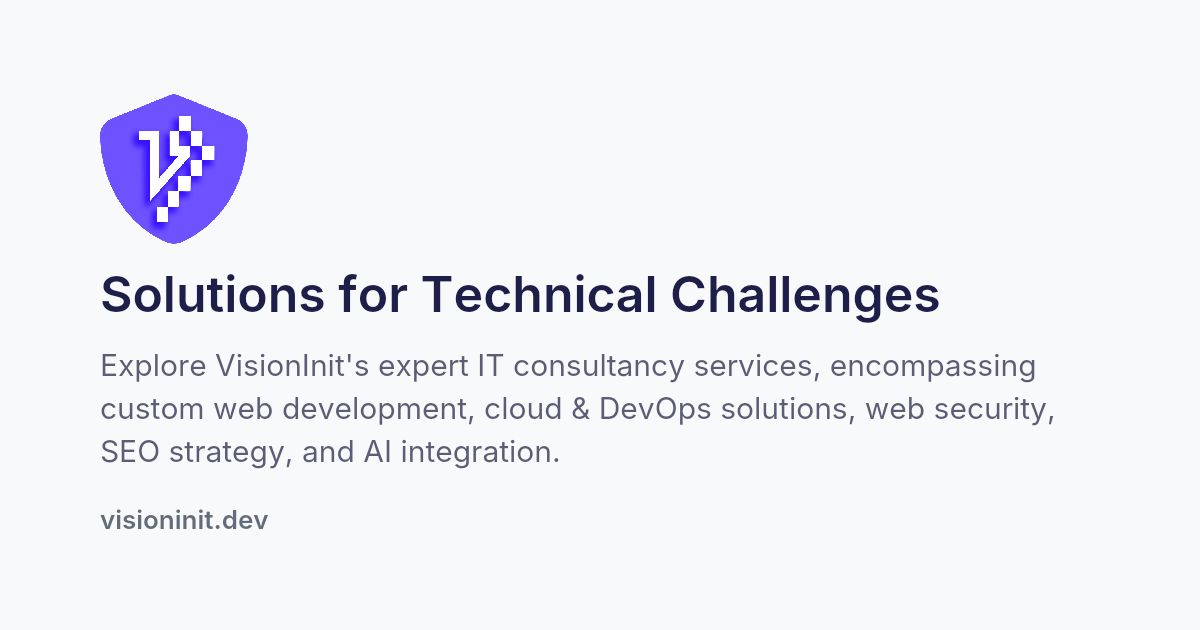
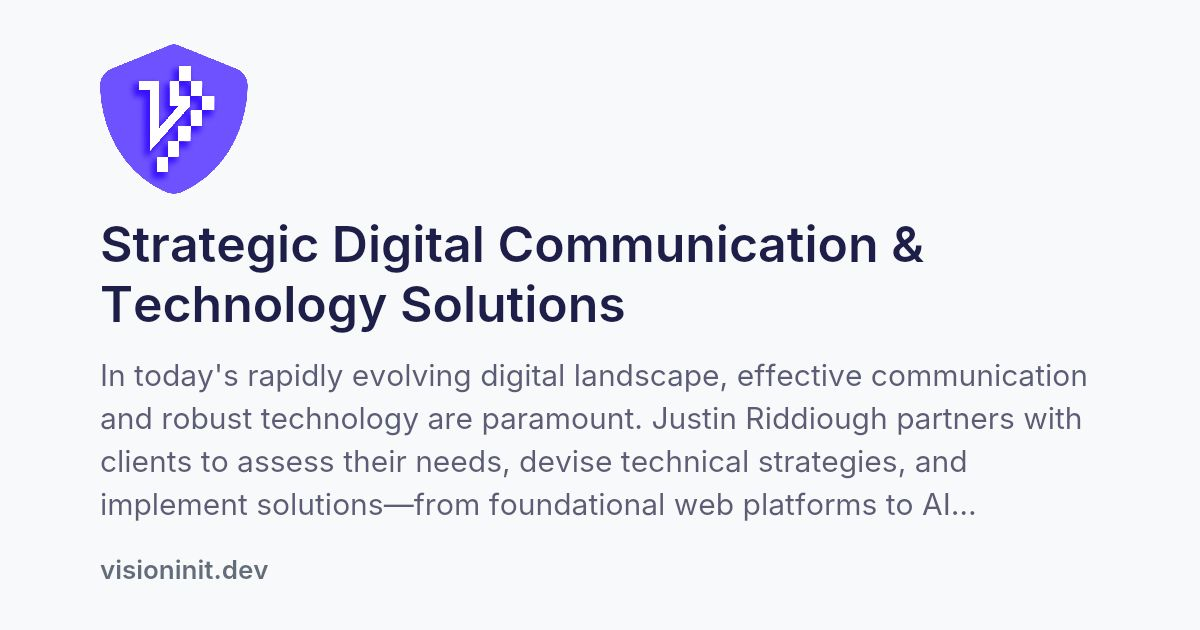
updates

diff --git a/layouts/index.html b/layouts/index.html
@@ -103,6 +103,24 @@
   </section>
   {{ end }}
   {{/* --- END: Subscription Tiers Section --- */}}
+
+  {{/* --- START: Philosophy Section --- */}}
+  {{ if $data.homepage.philosophy_section.enable }}
+  {{ with $data.homepage.philosophy_section }}
+  <section class="section bg-light">
+    <div class="container">
+      <div class="row justify-content-center">
+        <div class="col-lg-10 text-center">
+          {{ with .title }}<h2 class="section-title mb-4">{{ . | markdownify }}</h2>{{ end }}
+          {{ with .content }}<div class="content">{{ . | markdownify }}</div>{{ end }}
+        </div>
+      </div>
+    </div>
+  </section>
+  {{ end }}
+  {{ end }}
+  {{/* --- END: Philosophy Section --- */}}
+
   {{/* --- START: Core Services Section (Copied from /services/ logic) --- */}}
   {{ $servicesPages := where site.RegularPages "Section" "services" }} {{/* Get all pages in the services section */}}
   {{ $sortedServices := $servicesPages.ByWeight }} {{/* Sort them by weight */}}
@@ -116,7 +134,7 @@
       <div class="row justify-content-center">
         <div class="col-lg-8 text-center mb-5">
           <h2 class="section-title">Core Services</h2>
-          <p class="text-muted">Explore the key areas where VisionInit delivers expert solutions.</p>
+          <p class="text-muted">Explore the key areas where Justin Riddiough delivers expert solutions.</p>
         </div>
       </div>
 

diff --git a/content/about/_index.md b/content/about/_index.md
@@ -1,12 +1,12 @@
 ---
 title: 'About Justin Riddiough'
-description: 'Meet Justin Riddiough, founder of VisionInit, bringing 20+ years of hands-on software engineering, security expertise, and a pragmatic approach to your technical challenges.'
+description: 'Meet Justin Riddiough, bringing 20+ years of hands-on software engineering, security expertise, and a pragmatic approach to your technical challenges.'
 draft: false
 # Add image and text block parameters
 image1:
   src: '/images/about/justin.jpg'
   alt: 'Photo of Justin Riddiough'
-  caption: 'Justin Riddiough, Founder of VisionInit.'
+  caption: 'Justin Riddiough'
 text_block_1: | # Use | for multi-line text
   Justin's journey in technology wasn't forged in lecture halls; it began with the hands-on curiosity of exploring a Commodore 64, fostering a lifelong drive to understand how systems work – and how to make them better and more secure. This practical, self-taught foundation complements his extensive professional experience.
 
@@ -32,7 +32,7 @@ text_block_3: |
 
 ## About Justin Riddiough
 
-Welcome! Justin Riddiough, through VisionInit, offers pragmatic, secure, and effective technology solutions built on a foundation of **over two decades of his hands-on software engineering, technical leadership, and a deep-rooted passion for technology.**
+Welcome! Justin Riddiough offers pragmatic, secure, and effective technology solutions built on a foundation of **over two decades of his hands-on software engineering, technical leadership, and a deep-rooted passion for technology.**
 
 ### The Founder: Justin Riddiough
 
@@ -48,17 +48,19 @@ This diverse background shapes Justin Riddiough's core approach:
 
 - **Pragmatic & Effective:** Justin focuses on solutions that work reliably and meet your specific business goals, drawing on real-world operational experience.
 - **Security by Design:** Security isn't an add-on; it's integrated from the start, informed by years of development and direct vulnerability research experience.
+- **Championing Open Source:** Justin actively contributes to the open-source ecosystem, believing in its power to drive innovation and accessibility. His work on projects like [aimodels.org](https://aimodels.org), [Open Neuromorphic](https://open-neuromorphic.org), and [fmcheatsheet.org](https://fmcheatsheet.org) reflects his commitment to applying his technical skills in support of experts and initiatives critical to the long-term success of open source.
 - **Collaborative Partnership:** Justin believes in working closely with clients, translating technical complexities into clear terms, and ensuring alignment throughout the project – skills honed in coordinating multi-team efforts.
-- **Clear Communication:** Translating complex technical challenges for all stakeholders is paramount.
+- **Clear Communication:** **Translating complex technical challenges for all stakeholders is paramount.** This ensures everyone understands the 'why' and 'how' behind technical decisions, fostering better collaboration and outcomes.
+- **Strategic Technology Integration:** Justin stays at the forefront of technological advancements, including AI, to advise on and implement the most effective tools that not only solve technical problems but also enhance how you communicate and operate digitally.
 
-Justin's mission is to leverage this blend of deep technical skill, operational understanding, and security focus to deliver robust, maintainable, and secure technology solutions.
+Justin's mission is to leverage this blend of deep technical skill, operational understanding, security focus, and a commitment to open collaboration to deliver robust, maintainable, and secure technology solutions.
 
 ### Why Partner With Justin Riddiough?
 
 - **Decades of Experience:** Benefit from 20+ years of tackling real-world technical challenges.
 - **Proven Security Focus:** Work with a developer recognized for contributions to internet security and validated by bug bounty programs.
 - **Full-Stack Capability:** From front-end interfaces to backend logic and cloud infrastructure.
-- **Tailored Solutions:** Justin doesn't offer one-size-fits-all; Justin builds what _you_ need.
+- **Tailored Solutions:** Justin doesn't offer one-size-fits-all; he builds what _you_ need.
 - **Reliable Partnership:** Clear communication and a focus on delivering value.
 
 **Ready to discuss how Justin Riddiough can help bring your vision to life securely and efficiently?**

diff --git a/content/services/cloud-infrastructure-devops-solutions/index.md b/content/services/cloud-infrastructure-devops-solutions/index.md
@@ -1,6 +1,6 @@
 ---
 title: 'Cloud Infrastructure & DevOps Solutions'
-description: 'Designing, building, and managing scalable cloud infrastructure with automated CI/CD practices for efficient deployment and operations, drawing on experience with GCP and AWS.' # Enhanced description
+description: "Providing the reliable, scalable, and efficient technological foundation essential for seamless digital communication and operations. Justin designs and manages cloud solutions that keep your digital services running smoothly."
 draft: false
 service_tag: 'cloud-infrastructure-devops-solutions'
 icon: 'fa-solid fa-cloud-arrow-up'
@@ -12,6 +12,6 @@ service_points:
   - 'CI/CD & Automation Support: Experience supporting configuration management and deployment tools (JIRA, Confluence, Bamboo, Git, GitHub Actions, Puppet, Ansible - *skills listed*).'
 ---
 
-VisionInit provides expertise in deploying, managing, and optimizing web applications within cloud environments. Drawing on experience building and administering platforms like **aimodels.org** on **Google Cloud Platform (GCP)** (utilizing Cloud Run, Cloud Build, Cloud SQL) and familiarity with **Amazon AWS**, we design infrastructure for scalability and reliability. Our approach incorporates DevOps principles, including CI/CD pipeline elements and configuration management, to streamline deployments and ensure operational efficiency, informed by experience supporting tools like JIRA, Confluence, and Bamboo in past roles.
+Justin Riddiough provides expertise in deploying, managing, and optimizing web applications within cloud environments. Drawing on his experience building and administering platforms like **aimodels.org** on **Google Cloud Platform (GCP)** (utilizing Cloud Run, Cloud Build, Cloud SQL) and familiarity with **Amazon AWS**, he designs infrastructure for scalability and reliability. His approach incorporates DevOps principles, including CI/CD pipeline elements and configuration management, to streamline deployments and ensure operational efficiency, informed by experience supporting tools like JIRA, Confluence, and Bamboo in past roles.
 
-- **Value Delivered:** Gain efficient, scalable, and reliable cloud hosting for your applications. Benefit from streamlined deployment processes, proactive monitoring, and optimized performance based on practical experience managing cloud-native projects.
+- **Value Delivered:** Gain efficient, scalable, and reliable cloud hosting for your applications. Benefit from streamlined deployment processes, proactive monitoring, and optimized performance based on Justin's practical experience managing cloud-native projects.

diff --git a/content/services/custom-web-application-development/index.md b/content/services/custom-web-application-development/index.md
@@ -1,6 +1,6 @@
 ---
 title: 'Custom Web Application Development'
-description: 'Developing high-performance, secure, and user-friendly web applications tailored to unique business requirements, backed by 20+ years of full-stack experience.' # Enhanced description
+description: "Justin builds the custom digital platforms that serve as the backbone for your online communication, ensuring they are user-friendly, scalable, and aligned with your strategic goals."
 draft: false
 service_tag: 'custom-web-application-development'
 icon: 'fa-solid fa-code'
@@ -13,6 +13,6 @@ service_points:
   - 'API Design & Integration: Connecting disparate systems and services.'
 ---
 
-Leveraging **over two decades of hands-on experience**, VisionInit specializes in crafting bespoke web applications that precisely match your business needs. From complex content management systems and data-driven platforms to e-commerce solutions and community portals, we manage the full development lifecycle – from initial concept and architecture through secure coding, deployment, and ongoing maintenance. Our background includes successful projects for universities (Stanford GSB), government-related initiatives (GeoCONOPS), non-profits (MapLight), agencies (Four Kitchens), and independent ventures (AI Models).
+Leveraging **over two decades of his hands-on experience**, Justin Riddiough specializes in crafting bespoke web applications that precisely match your business needs. From complex content management systems and data-driven platforms to e-commerce solutions and community portals, he manages the full development lifecycle – from initial concept and architecture through secure coding, deployment, and ongoing maintenance. His background includes successful projects for universities (Stanford GSB), government-related initiatives (GeoCONOPS), non-profits (MapLight), agencies (Four Kitchens), and independent ventures (AI Models).
 
-- **Value Delivered:** You receive a web application built on a foundation of extensive real-world experience, ensuring it's not just functional but also scalable, maintainable, secure, and strategically aligned with your operational processes. We translate complex requirements into reliable digital solutions.
+- **Value Delivered:** Clients receive a web application built on a foundation of Justin's extensive real-world experience, ensuring it's not just functional but also scalable, maintainable, secure, and strategically aligned with their operational processes. He translates complex requirements into reliable digital solutions.

diff --git a/content/services/ai-data-integration-services/index.md b/content/services/ai-data-integration-services/index.md
@@ -1,6 +1,6 @@
 ---
 title: 'AI & Data Integration Services'
-description: 'Bridging the gap between AI models and practical application through platform development, data pipeline strategies, and cloud integration.' # Enhanced description
+description: "Leveraging AI and data to create smarter, more personalized digital communication experiences. Justin helps integrate AI models and manage data pipelines to unlock new levels of engagement and efficiency."
 draft: false
 service_tag: 'ai-data-integration-services'
 icon: 'fa-solid fa-brain'
@@ -12,6 +12,6 @@ service_points:
   - 'Open-Source AI Ecosystem: Familiarity with community platforms and resources (Hugging Face, community site development).'
 ---
 
-Transforming AI concepts into functional applications requires robust development and data handling. VisionInit offers services informed by direct experience **founding and developing aimodels.org**, a platform showcasing open-source AI models. This involved architecting the system using **Hugo and Python**, managing data pipelines for model information, and leveraging **GCP cloud services** (Cloud Run, Build, SQL) for deployment and scalability. We also have experience collaborating within the AI ecosystem (Open Neuromorphic, FM Cheatsheet) and integrating complex data (MapLight).
+Transforming AI concepts into functional applications requires robust development and data handling. Justin Riddiough offers services informed by his direct experience **founding and developing aimodels.org**, a platform showcasing open-source AI models. This involved him architecting the system using **Hugo and Python**, managing data pipelines for model information, and leveraging **GCP cloud services** (Cloud Run, Build, SQL) for deployment and scalability. He also has experience collaborating within the AI ecosystem (Open Neuromorphic, FM Cheatsheet) and integrating complex data (MapLight).
 
-- **Value Delivered:** Benefit from practical experience in building the infrastructure around AI. Get tailored solutions for integrating AI models, managing associated data, and deploying scalable applications on the cloud, turning AI potential into real-world value.
+- **Value Delivered:** Benefit from Justin's practical experience in building the infrastructure around AI. Get tailored solutions for integrating AI models, managing associated data, and deploying scalable applications on the cloud, turning AI potential into real-world value.

diff --git a/content/services/web-security-ethical-hacking/index.md b/content/services/web-security-ethical-hacking/index.md
@@ -1,6 +1,6 @@
 ---
 title: 'Web Security & Ethical Hacking'
-description: 'Providing expert vulnerability assessments, ethical hacking insights, and secure development practices, validated by successful bug bounty contributions.' # Enhanced description
+description: "Secure digital communication builds trust. Justin protects your platforms and data, ensuring your interactions with users are safe and your reputation is preserved in an era of increasing cyber threats."
 draft: false
 service_tag: 'web-security-ethical-hacking'
 icon: 'fa-solid fa-shield-halved'
@@ -12,6 +12,6 @@ service_points:
   - 'Ethical Hacking Mindset: Approaching security from an adversarial perspective to uncover weaknesses before malicious actors do.'
 ---
 
-Security is not an afterthought; it's integral to robust development. VisionInit offers web security services grounded in **real-world vulnerability discovery** and a commitment to secure coding practices. With proven success in identifying and reporting security flaws through programs like the **Stanford Bug Bounty (~$1500 awarded)** and contributions to platforms like **HackerOne ($500 awarded)**, we bring a proactive, attacker-minded perspective to securing your web assets. Our focus is on integrating security throughout the Software Development Lifecycle (SDLC).
+Security is not an afterthought; it's integral to robust development. Justin Riddiough offers web security services grounded in his real-world vulnerability discovery and a commitment to secure coding practices. With his proven success in identifying and reporting security flaws through programs like the **Stanford Bug Bounty (~$1500 awarded)** and contributions to platforms like **HackerOne ($500 awarded)**, he brings a proactive, attacker-minded perspective to securing your web assets. His focus is on integrating security throughout the Software Development Lifecycle (SDLC).
 
-- **Value Delivered:** Enhance your security posture with insights derived from practical vulnerability research. Protect your digital assets, build user trust, and reduce the risk of breaches by partnering with experience validated by recognized security programs.
+- **Value Delivered:** Enhance your security posture with insights derived from Justin's practical vulnerability research. Protect your digital assets, build user trust, and reduce the risk of breaches by partnering with experience he has validated by recognized security programs.

diff --git a/content/services/seo-content-strategy-optimization/index.md b/content/services/seo-content-strategy-optimization/index.md
@@ -1,6 +1,6 @@
 ---
 title: 'SEO & Content Strategy Optimization'
-description: 'Optimizing websites and content strategies for improved search visibility and user engagement, demonstrated by significant traffic growth on past projects.' # Enhanced description
+description: "Ensuring your digital message reaches the right audience effectively. Justin optimizes your online presence and content strategy for maximum visibility, engagement, and impact."
 draft: false
 service_tag: 'seo-content-strategy-optimization'
 icon: 'fa-solid fa-magnifying-glass-chart'
@@ -12,6 +12,6 @@ service_points:
   - 'Analytics & Traffic Growth: Proven ability to implement strategies leading to measurable increases in organic search traffic (AI Models).'
 ---
 
-Effective online visibility requires more than just content; it demands technical optimization and strategic structure. VisionInit leverages experience from projects like **aimodels.org**, which saw **significant organic traffic increases** through robust SEO implementation, and community sites like **Open Neuromorphic** and **FM Cheatsheet**, where SEO enhancements boosted discoverability. We focus on technical SEO, performance optimization (a key factor for search rankings), and building content-rich sites using efficient platforms like Hugo.
+Effective online visibility requires more than just content; it demands technical optimization and strategic structure. Justin Riddiough leverages his experience from projects like **aimodels.org**, which saw **significant organic traffic increases** through robust SEO implementation, and community sites like **Open Neuromorphic** and **FM Cheatsheet**, where SEO enhancements boosted discoverability. He focuses on technical SEO, performance optimization (a key factor for search rankings), and building content-rich sites using efficient platforms like Hugo.
 
-- **Value Delivered:** Improve your website's discoverability in search engines, attract more qualified organic traffic, and enhance user engagement through technically sound SEO practices and performance optimization, based on demonstrated project successes.
+- **Value Delivered:** Improve your website's discoverability in search engines, attract more qualified organic traffic, and enhance user engagement through technically sound SEO practices and performance optimization, based on Justin's demonstrated project successes.

diff --git a/content/services/_index.md b/content/services/_index.md
@@ -1,6 +1,6 @@
 ---
-title: 'Solutions for Technical Challenges'
-description: "Explore VisionInit's expert IT consultancy services, encompassing custom web development, cloud & DevOps solutions, web security, SEO strategy, and AI integration."
+title: "Strategic Digital Communication & Technology Solutions"
+description: "In today's rapidly evolving digital landscape, effective communication and robust technology are paramount. Justin Riddiough partners with clients to assess their needs, devise technical strategies, and implement solutions—from foundational web platforms to AI integrations—that ensure their message is delivered securely and effectively."
 layout: 'list' # Explicitly use the list layout for the overview
 # menu:
 #   main:
